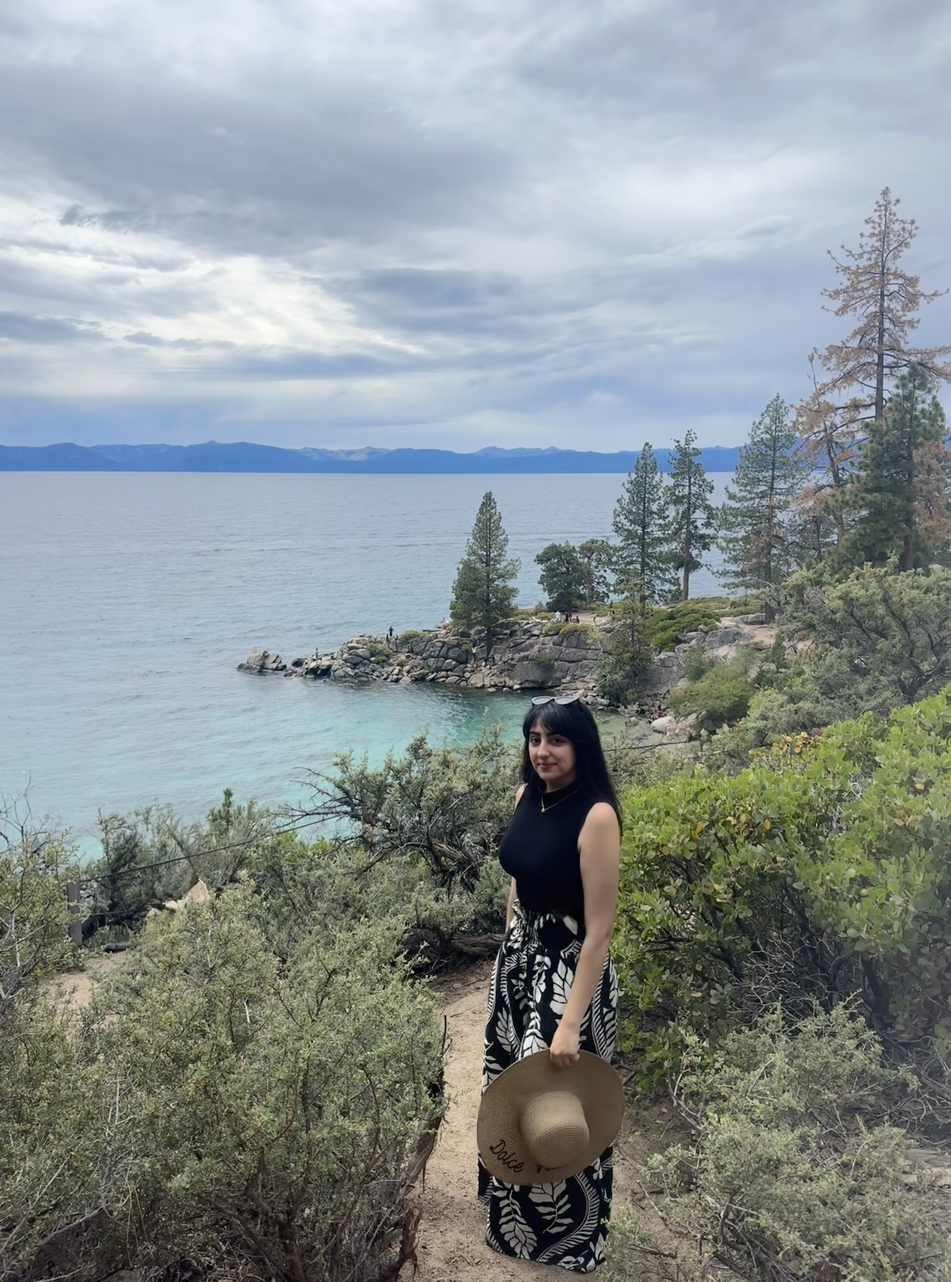
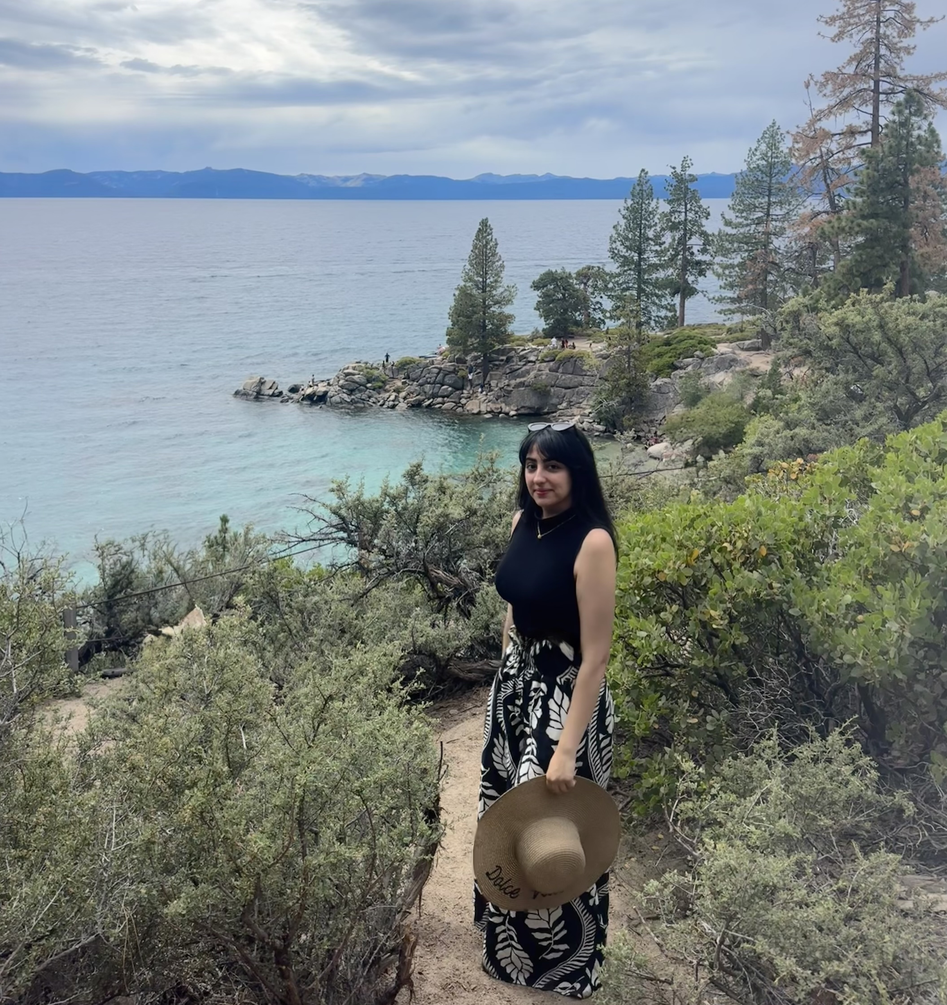
Update tutoring center pages

diff --git a/tutors/index.html b/tutors/index.html
@@ -1,7 +1,7 @@
 ---
 layout: default
 title: Tutors
-lead: 'Meet the current tutors below, as well as the faculty sponsors.'
+lead: 'Meet the current tutors below, as well as the faculty sponsor.'
 ---
 <!-- lead: 'Meet the current and past tutors below, as well as the faculty sponsors. Stop by HR 413 during tutoring sessions to say hello!' -->
 <!-- Update to Tutors page coming soon -->
@@ -16,7 +16,7 @@ lead: 'Meet the current tutors below, as well as the faculty sponsors.'
         <a class="pull-left" href="#">
           <!-- <img class="media-object img-thumbnail tutor-photo" src="{{ site.url }}/img/Tutors/paria.jpeg"> -->
           <img class="media-object img-thumbnail tutor-photo"
-          style="width: 150px; height: 150px; object-fit: cover; object-position: center;"
+          style="width: 180px; height: 180px; object-fit: cover; object-position: center;"
           src="{{ site.url }}/img/Tutors/Paria-Akhtarmoghaddam.jpeg">
         </a>
       </td>
@@ -27,7 +27,7 @@ lead: 'Meet the current tutors below, as well as the faculty sponsors.'
         <a class="pull-left" href="#">
           <!-- <img class="media-object img-thumbnail tutor-photo" src="{{ site.url }}/img/Tutors/Mowei-Zhang.jpeg"> -->
           <img class="media-object img-thumbnail tutor-photo"
-          style="width: 150px; height: 150px; object-fit: cover; object-position: center;"
+          style="width: 180px; height: 180px; object-fit: cover; object-position: center;"
           src="{{ site.url }}/img/Tutors/Mowei-Zhang.jpeg">
         </a>
       </td>
@@ -39,7 +39,7 @@ lead: 'Meet the current tutors below, as well as the faculty sponsors.'
         <a class="pull-left" href="#">
           <!-- <img class="media-object img-thumbnail tutor-photo" src="{{ site.url }}/img/Tutors/Thomas-Yeung.jpg"> -->
           <img class="media-object img-thumbnail tutor-photo"
-          style="width: 150px; height: 150px; object-fit: cover; object-position: center;"
+          style="width: 180px; height: 180px; object-fit: cover; object-position: center;"
           src="{{ site.url }}/img/Tutors/Thomas-Yeung.jpg">
         </a>
       </td>
@@ -50,7 +50,7 @@ lead: 'Meet the current tutors below, as well as the faculty sponsors.'
         <a class="pull-left" href="#">
           <!-- <img class="media-object img-thumbnail tutor-photo" src="{{ site.url }}/img/Tutors/Ryan-Shindle.jpg"> -->
           <img class="media-object img-thumbnail tutor-photo"
-          style="width: 150px; height: 150px; object-fit: cover; object-position: center;"
+          style="width: 180px; height: 180px; object-fit: cover; object-position: center;"
           src="{{ site.url }}/img/Tutors/Ryan-Shindle.jpg">
         </a>
       </td>
@@ -62,7 +62,7 @@ lead: 'Meet the current tutors below, as well as the faculty sponsors.'
         <a class="pull-left" href="#">
           <!-- <img class="media-object img-thumbnail tutor-photo" src="{{ site.url }}/img/Tutors/Georgia-Lill.jpeg"> -->
           <img class="media-object img-thumbnail tutor-photo"
-          style="width: 150px; height: 150px; object-fit: cover; object-position: center;"
+          style="width: 180px; height: 180px; object-fit: cover; object-position: center;"
           src="{{ site.url }}/img/Tutors/Georgia-Lill.jpeg">
         </a>
       </td>
@@ -70,7 +70,7 @@ lead: 'Meet the current tutors below, as well as the faculty sponsors.'
   </thead>
 </table>
 
-<h2>Faculty Sponsors</h2>
+<h2>Faculty Sponsor</h2>
 
 <ul class="media-list">
 

diff --git a/index.html b/index.html
@@ -65,18 +65,19 @@ title: Home
       the <a href="https://usfcs.slack.com/">USF CS slack group</a>. Below you can find the recorded sessions of selected past workshops held by the Tutoring Center.
     </p>
 
-    <!-- <h3>Fall 2021 Workshops</h3>
+    <h3>Fall 2024 Workshops</h3>
     <p>
-      <strong>Git Workshop</strong>
-      <br> -->
+      <strong>SSH Workshop</strong>
+      <br>
       <!-- Friday, October 8th, 2021, 1:30-3:30PM. -->
       <!-- <br> -->
+      <a href=" https://usfca.hosted.panopto.com/Panopto/Pages/Viewer.aspx?id=71fabaef-5877-4603-a80f-b1d700018dae" target="_blank">Video</a>
       <!-- <a href="https://www.cs.usfca.edu/~tutoring/Git_Workshop_Part_1.mp4" target="_blank">Video: Part 1</a>
       <br>
       <a href="https://www.cs.usfca.edu/~tutoring/Git_Workshop_Part_2.mp4" target="_blank">Video: Part 2</a> -->
       <!-- <a href="https://usfca.zoom.us/j/89065582877" target="_blank">https://usfca.zoom.us/j/89065582877</a> -->
-    <!-- </p>
-    <p>
+    </p>
+    <!-- <p>
       <strong>Linux Installfest</strong>
       <br> -->
       <!-- Friday, September 24th, 2021, 1:30-3:30PM.<br> -->

diff --git a/calendar/index.html b/calendar/index.html
@@ -1,7 +1,7 @@
 ---
 layout: default
 title: Calendar
-lead: 'The CS Tutoring Center is open weekday afternoons and/or evenings during the semester, and hosts various workshops and social events throughout the year. See the calendar below for details.'
+lead: 'The CS Tutoring Center is open weekdays from morning through early evening during the semester, and hosts various workshops and social events throughout the year. See the calendar below for details.'
 ---
 
 <br/>
